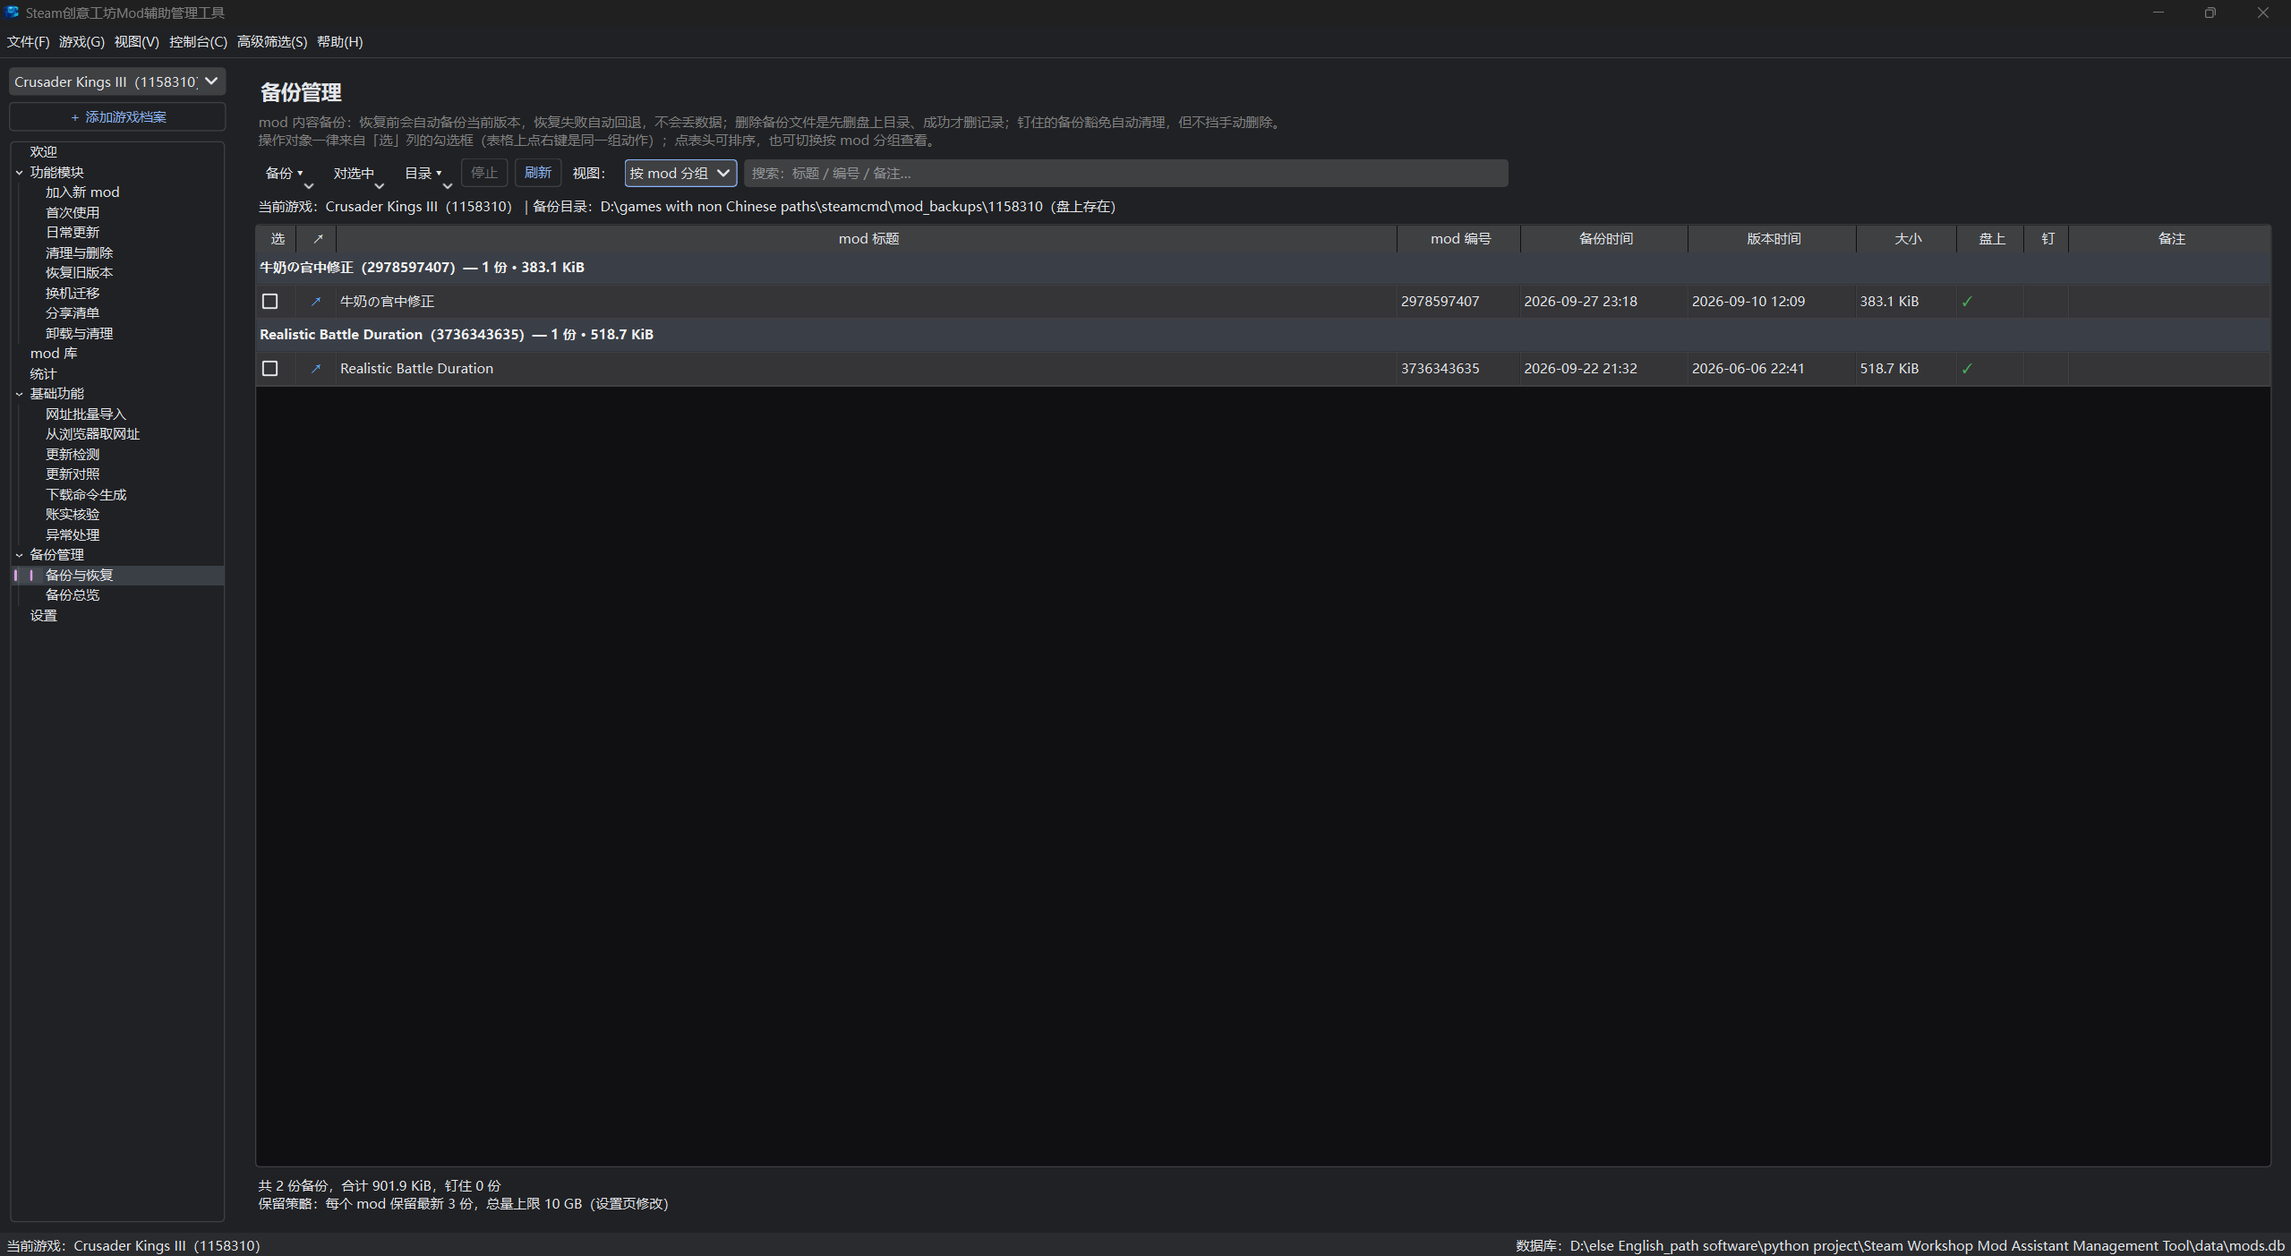
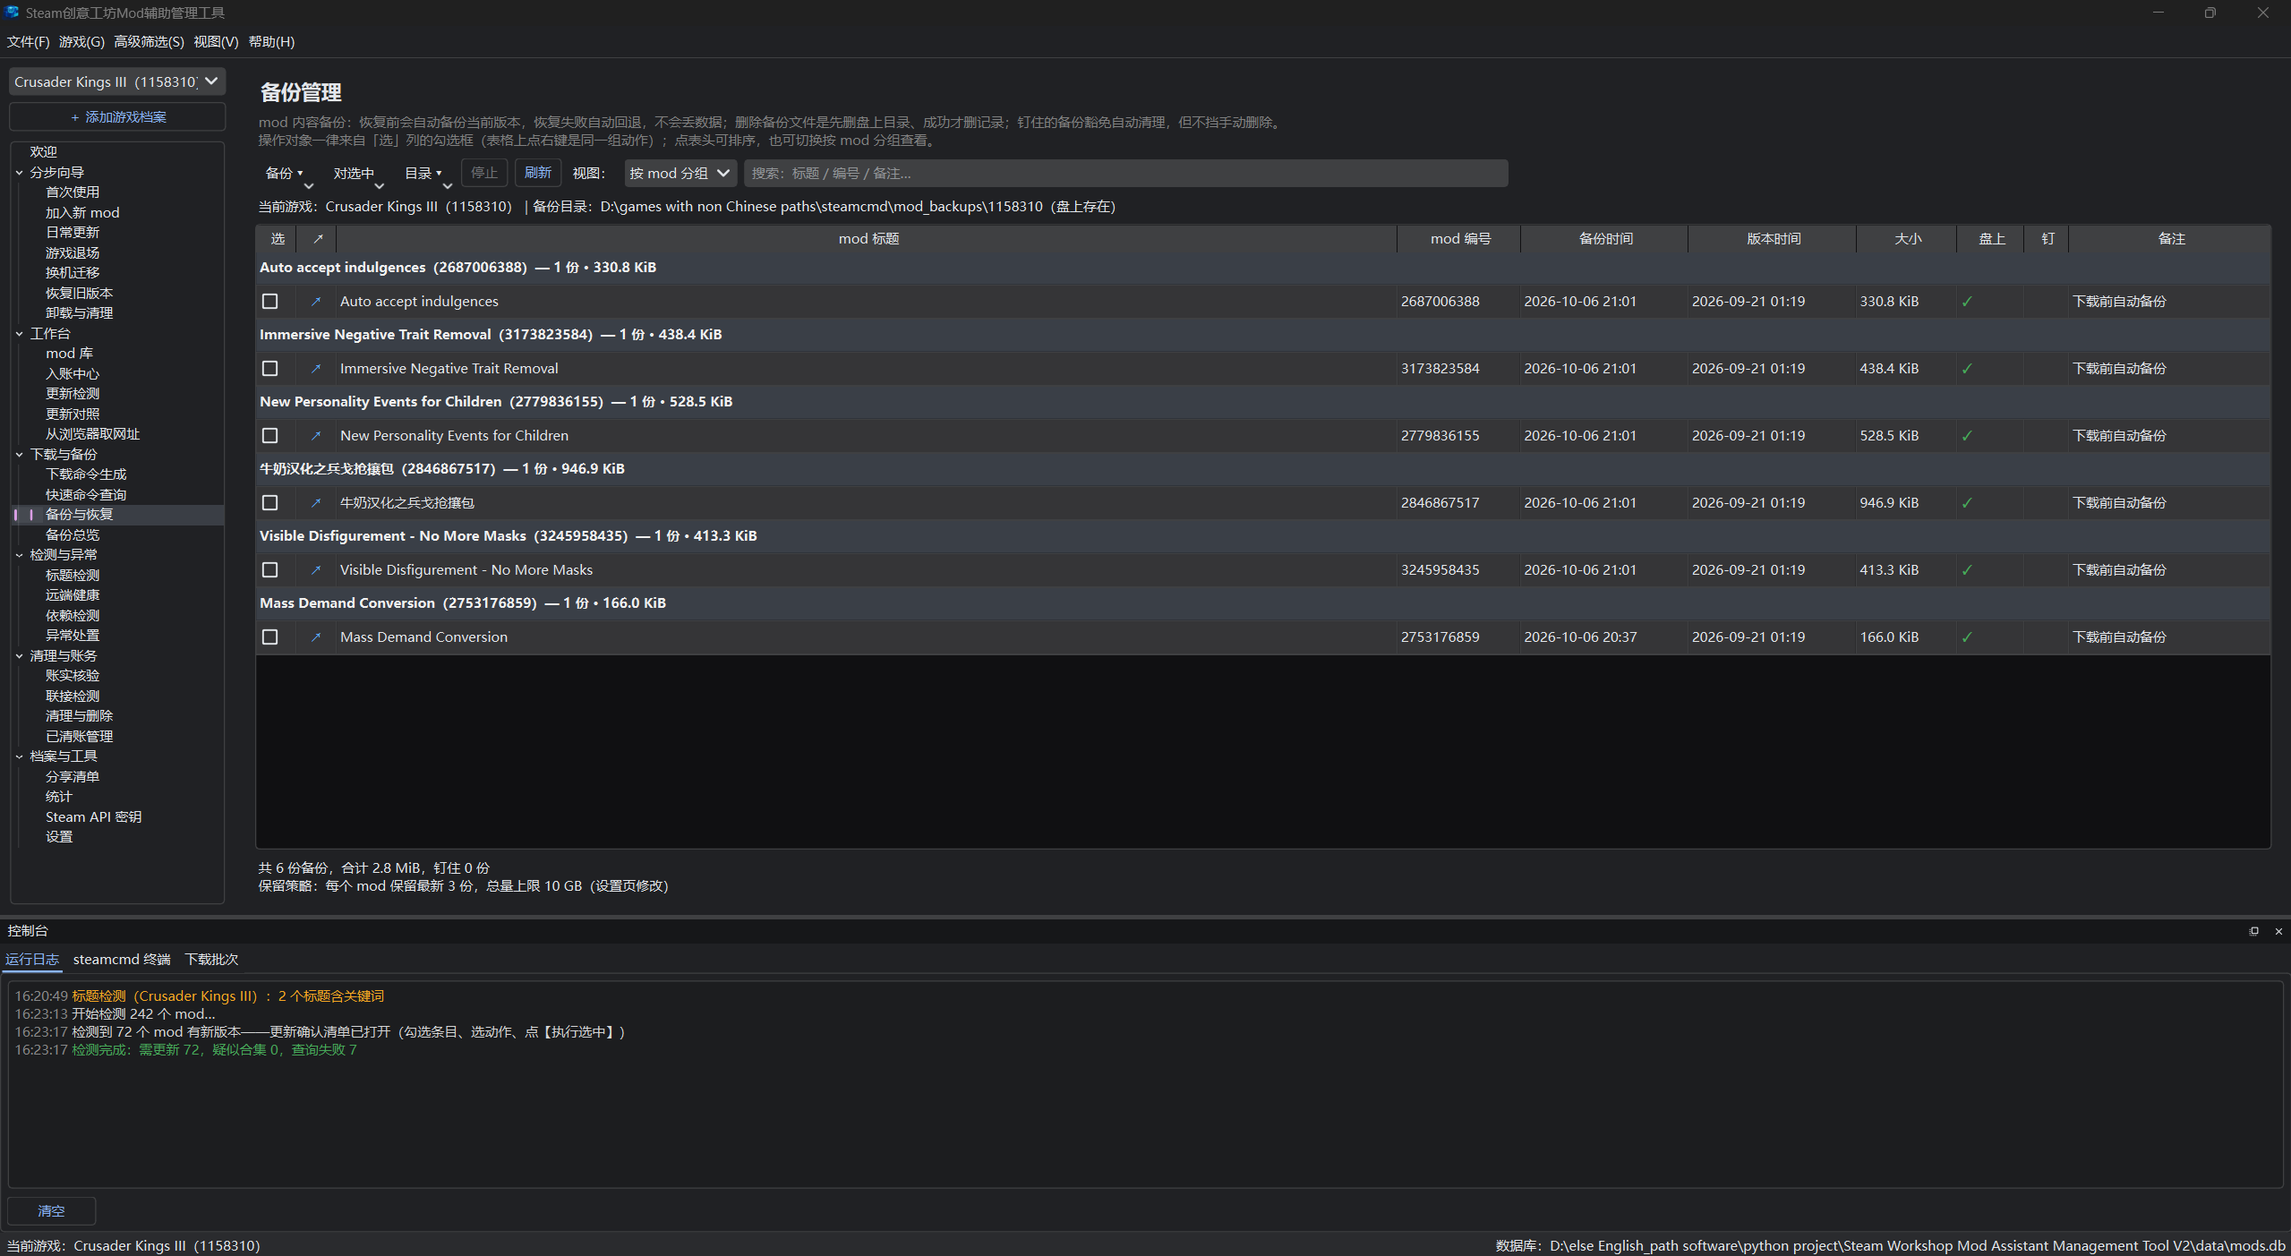
机制轮：批前清缓存接线 + 退出前账本断根扫尾（三时机闭环）

diff --git a/gui/welcomePage.py b/gui/welcomePage.py
@@ -168,7 +168,60 @@ class WelcomePage(QWidget):
             " ③ 与这台 steamcmd 共用的其他前端（如 RimSort）下载的 mod "
             "不会自动入账：它们会出现在【入账中心】的「待认领」区"
             "（批次结束会自动盘点，平时也可以随时点「扫描游戏目录」），你"
-            "看过、点头之后才算数。",
+            "看过、点头之后才算数。一次性收编没问题——但同一个游戏长期"
+            "两边管会打架，见下面「一个游戏一个管家」一节；",
+
+        ])
+        self._section("steamcmd 的两个坑（为什么要有这套设计）", [
+            "本工具对「本地版本」「确认入账」的较真不是风格偏好，是被 "
+            "steamcmd 的两个真实行为逼出来的——v1 版本在这两个坑里都"
+            "栽过，v2 推倒重来的设计就是冲它们来的：",
+            " ",
+            "坑一·steamcmd 自己有本账，而且会「说谎」。",
+            " steamcmd 在自己的目录树里维护一份内部记账文件，记着"
+            "「哪些 mod 已安装」；它退出或做整体校验时会把这份文件"
+            "整个重写。更麻烦的是它的下载缓存：删掉的 mod 的数据块"
+            "留在缓存里，之后任何一次下载都可能触发「整体校验装配」，"
+            "把已删除的 mod 原样装回硬盘、重新写进那份记账文件——"
+            "这就是「删掉的 mod 复活」。v1 就是照着盘面和这份记账记"
+            "版本的，复活的 mod 原样重新入账；v2 立「判决制」、把版本"
+            "认定收进确认门，直接原因就在这。",
+            "v2 的对策分三层，层层兜底：①版本与在册状态只认确认门，"
+            "盘面文件与 steamcmd 的记账产物一律没资格自动写进本工具"
+            "的账本（机器不替你做主）；②「彻底清账」自动登记黑名单，"
+            "复活的内容被拦在「入账」门外；③每批下载开始前自动清"
+            "缓存（默认开，设置页可关），退出程序时再把黑名单条目"
+            "从 steamcmd 的记账文件里移除——从源头断根。",
+            " ",
+            "坑二·更新是整个替换，没有增量。",
+            " steamcmd 更新一个 mod = 旧内容文件夹整个删掉、重新下载"
+            "完整一份。所以本工具坚持「备份先行」：版本确认过的条目，"
+            "更新前先把旧版本完整备份（【备份与恢复】页统一管理，可设"
+            "保留份数与总容量上限），新版本出问题随时整份退回。",
+        ])
+        self._section("一个游戏一个管家（RimSort 等别的前端）", [
+            "RimSort 这类前端同样是指挥 steamcmd 下载 mod 的管理器，"
+            "和本工具是同行——抢的是同一台机器：steamcmd 只有一个，"
+            "两边各有各的 mod 清单和版本记录，互相不知道对方做了什么。"
+            "同一个游戏两边一起管，一定会打架：",
+            " ",
+            "· 本工具删掉（彻底清账）的 mod，RimSort 的清单里还留着 → "
+            "它下次开批就把整份重新下载回来。黑名单拦得住「进本工具"
+            "的账」，拦不住别的管家把它写回硬盘——要真断根，先把"
+            "那边清单里的条目移除；",
+            "· 版本对不上：RimSort 不认识本工具「确认过的版本」。你在"
+            "本工具里回拨或钉住的版本，它按自己的记录照样催更；它替"
+            "你升完，盘上变新、本工具账上还是旧，下轮【更新检测】"
+            "再报「需更新」——两个管家对同一批文件各说各话，来回"
+            "拉扯没有赢家；",
+            "· 两边同时开批会抢同一个 steamcmd 的缓存与记账文件，"
+            "写入互相覆盖，两边的账都可能白做。",
+            " ",
+            "结论：同一个游戏的 mod 下载、更新、删除，只托付给一个"
+            "管家。用本工具管 RimWorld，就把 RimSort 清单里对应的"
+            "条目清掉（至少永远别点它的「更新全部」）；想整个改用 "
+            "RimSort 管，先走【游戏退场】把该游戏从本工具里干净退出。"
+            "不同游戏各用各的没问题——冲突只发生在同一个游戏上。",
         ])
 
         self._section("两本账（版本时间从哪来）", [
@@ -182,6 +235,10 @@ class WelcomePage(QWidget):
             "「需更新」= 远端更新时间比本地确认版本新。刚登记还没下载的"
             "条目不参与比较；刚下载还没确认的条目本地版本显示「未知」——"
             "去【入账中心】确认一下就好。",
+            "为什么这么死板？凡是自动读盘面记版本的做法，都被 steamcmd 的"
+            "缓存装配机制反复打过脸——见上上节「steamcmd 的两个坑」，"
+            "确认门是拿教训换来的设计。",
+
         ])
 
         self._section("账与盘（状态和文件夹为什么可能对不上）", [
@@ -315,7 +372,10 @@ class WelcomePage(QWidget):
             "（需要免费的 API key）。",
             "已清账与黑名单 「彻底清账」把记录物理删除，同时把编号登记进"
             "黑名单；之后即使 steamcmd 把删掉的 mod 重新装配回来，也不会"
-            "入账。「已清账管理」页可查看名单、允许录入或手动拉黑。",
+            "入账。「已清账管理」页可查看名单、允许录入或手动拉黑；退出"
+            "程序时会自动把这些编号从 steamcmd 的记账文件里移除（断根"
+            "扫尾），不劳你惦记。",
+
         ])
 
         # 旧：self._section("功能模块总表（与左导航「功能模块」组对应）", [

diff --git a/gui/batchDownloadController.py b/gui/batchDownloadController.py
@@ -45,22 +45,21 @@ QThread 里跑；线程只调 BackupManager / SteamApiClient（前者写库沿
 原文核对后为准。
 """
 from types import SimpleNamespace
-from core import inventoryFlow
 
 from PySide6.QtCore import QThread, QUrl, Signal
 from PySide6.QtGui import QDesktopServices
 from PySide6.QtWidgets import QApplication, QMessageBox, QWidget
 
-from core import constants, netGate
-
-
+from core import constants, netGate, steamPaths
+from core import inventoryFlow
 from core.backupManager import BackupManager, steamcmd_running
 from core.batchDownloadFlow import BatchDownloadFlow, resolve_written
 from core.modRepository import ModRepository
 from core.steamApiClient import SteamApiClient, SteamApiError
+from core.urlParser import workshop_url
 from gui.logBus import LogBus
 from gui.modFolderOpener import open_mod_folder
-from core.urlParser import workshop_url
+
 # 备份引擎的保留策略参数在 _BackupPhaseWorker 构造时从设置页现读：
 # backup_keep_per_mod / backup_total_quota_gb 两键（core/appSettings.DEFAULTS）。
 
@@ -271,6 +270,13 @@ class BatchDownloadController(QWidget):
             self._log.error("该档案没有设置下载目录：请到「游戏 → 编辑档案」"
                             "补齐后再下载")
             return False
+        # 决策 100（修35）：批次前清缓存——设置页开关默认开、hint 早已
+        # 向用户承诺"每批下载开始前自动清空"，此前全项目零消费点。
+        # 时机 = 开批检查全过、任何命令都还没发（steamcmd 刚起在提示符
+        # 空闲，不持缓存文件锁；备份阶段读的 content 目录与缓存目录
+        # 互不相干）。清理是优化不是前提：引擎逐项尝试、占用/联接
+        # 跳过、绝不抛错（契约见 core/steamPaths.clear_download_caches）。
+        self._clear_steamcmd_caches()
 
         # 锁定本轮上下文：之后用户切档案只影响界面，不影响批次
         self._game = game
@@ -288,6 +294,7 @@ class BatchDownloadController(QWidget):
             return True
 
         return self._begin_download_phase(ids)
+
     def _has_login_cmd(self) -> bool:
         """本批是否自动登录（决策 91 综合判定；start_batch 的卡片
         has_login 与 _launch_flow 的 login_cmd 共用这一个判定，两边
@@ -303,6 +310,33 @@ class BatchDownloadController(QWidget):
         raw = str(self._settings.get("steamcmd_login_cmd") or "")
         return bool(raw.strip())
 
+    def _clear_steamcmd_caches(self) -> None:
+        """决策 100：批次开始前清空 steamcmd 下载缓存（depotcache 与
+        workshop\\downloads）——steamcmd 会用缓存把已删除的 mod 原样
+        装配回 content 并写回它的账本文件（"复活"机制），清掉即断根；
+        对部分"下载失败"也有改善。设置开关
+        steamcmd_clear_cache_before_batch（默认开）；关 = 直发车，
+        保留缓存省流量（换来的代价是删过的 mod 可能被装配回来——
+        黑名单与退出扫尾仍在，见 MainWindow._acf_sweep_at_exit）。
+        引擎单源 core/steamPaths.clear_download_caches：content 目录
+        本体一概不碰；steamcmd 未配置 → 无事发生。
+        已知限制：缓存特别大时 rmtree 在主线程可能占几秒（首批最明显，
+        之后每批只清当批增量）。实测明显卡顿再升级为线程化，先不预设。"""
+        if self._settings.get_int("steamcmd_clear_cache_before_batch", 1) == 0:
+            return
+        cmd = str(self._settings.get("steamcmd_path") or "")
+        try:
+            freed, cleared, skipped = steamPaths.clear_download_caches(cmd)
+        except Exception as exc:  # 清理是优化：任何意外都不拦批次
+            self._log.warn(f"批次前清缓存出错（照常开批）：{exc}")
+            return
+        if cleared == 0 and not skipped:
+            return  # 缓存本来就空 / 未配置：零日志噪音
+        line = (f"批次前清缓存：清掉 {cleared} 项，"
+                f"释放 {freed / 2 ** 20:.1f} MB")
+        if skipped:
+            line += f"；跳过 {len(skipped)} 项（被占用/联接，不影响开批）"
+        self._log.info(line)
 
     # ---------------- 阶段一：备份（决策 40） ----------------
     def _start_backup_phase(self, ids: list[int]) -> None:

diff --git a/gui/MainWindow.py b/gui/MainWindow.py
@@ -73,9 +73,11 @@ from PySide6.QtWidgets import (
 from gui.browserTabPage import BrowserTabPage
 from gui.browserPickDialog import BrowserPickDialog
 
-
 from core import appPaths
 from core import constants
+from core import steamPaths
+from core.backupManager import steamcmd_running
+
 from core.appSettings import AppSettings
 from core.models import Game
 from core.sqliteRepository import SQLiteRepository
@@ -1336,6 +1338,10 @@ class MainWindow(QMainWindow):
             if callable(shutdown):
                 shutdown()
 
+        # 退出前断根扫尾（决策 114）：steamcmd 已在上面收停、账本还没
+        # 关——正是补断根刀的安全窗口。详见 _acf_sweep_at_exit。
+        self._acf_sweep_at_exit()
+
         self._save_panel_state()
         self._repo.close()
         super().closeEvent(event)
@@ -1428,6 +1434,64 @@ class MainWindow(QMainWindow):
         # 错位；空库存空串，恢复侧按"没有"处理
         game = self._current_game
         q.setValue(_SES_LAST_GAME, game.app_id if game is not None else "")
+    def _acf_sweep_at_exit(self) -> None:
+        """退出前断根扫尾（决策 114）：把黑名单登记的全部编号从
+        steamcmd 的账本文件里移除。
+
+        为什么扫整个黑名单而不是记"欠账清单"：断根被跳过的情形
+        （清账那一刻 steamcmd 在跑，mod 库页只留指路日志）不落任何
+        登记也无从补记；而黑名单的语义本就是"这些编号永不再来"，
+        steamcmd 账本里留着它们的登记只会反复触发校验装配占盘。
+        每次退出扫一遍 = 黑名单与 steamcmd 账本最终一致，不再依赖
+        用户记得去【已清账管理】页手动执行；条目早已不在账本 = 引擎
+        原样返回，零副作用。
+
+        安全边界（与已清账页手动移除同款，引擎单源
+        core/steamPaths.remove_items_from_acf）：写前自动备份
+        （.bak_时间戳）、解析失败绝不落笔、文件级问题只记日志不
+        阻断其余档案。steamcmd 仍在跑（强杀未及退场等极端情况）→
+        整体跳过，下次退出再补。任何意外绝不阻断退出。"""
+        try:
+            if steamcmd_running():
+                self._log.warn("steamcmd 尚未完全退出：本次跳过账本"
+                               "断根扫尾（下次退出时补）")
+                return
+            root = steamPaths.steamcmd_root(
+                self._settings.get("steamcmd_path") or "")
+            if root is None:
+                return  # 没配 steamcmd：无事可做，静默
+            recs = self._repo.list_purged()
+            if not recs:
+                return
+            by_game: dict[int, list[int]] = {}
+            for r in recs:
+                by_game.setdefault(r.game_id, []).append(r.mod_id)
+            total_removed, games_done, failures = 0, 0, 0
+            for game_id, mids in sorted(by_game.items()):
+                acf = steamPaths.locate_acf(root, game_id)
+                if acf is None:
+                    continue  # 该游戏从没在本机下载过：无账可清
+                try:
+                    removed, _absent = steamPaths.remove_items_from_acf(
+                        acf, mids)
+                except ValueError as exc:
+                    failures += 1
+                    self._log.warn(f"账本扫尾：游戏 {game_id} 的账本"
+                                   f"未动（{exc}）")
+                    continue
+                if removed:
+                    total_removed += len(removed)
+                    games_done += 1
+            if total_removed:
+                self._log.ok(
+                    f"退出前断根扫尾：已通知 steamcmd 忘记黑名单里的 "
+                    f"{total_removed} 个条目（{games_done} 个游戏；"
+                    "原账本文件已自动备份在同目录）")
+            if failures:
+                self._log.warn(f"账本扫尾：{failures} 个游戏的账本文件"
+                               "有问题未动（详见上方日志）")
+        except Exception as exc:  # 收尾不拦退出
+            self._log.warn(f"退出前账本扫尾未完成（不影响退出）：{exc}")
 
     # ---------- 全局异常兜底 ----------
 

diff --git a/gui/purgedPage.py b/gui/purgedPage.py
@@ -106,7 +106,11 @@ class PurgedPage(QWidget):
             "这里是「彻底清账」登记的黑名单：名单里的编号，入账中心"
             "【扫描游戏目录】时一律拦截复活入库（steamcmd 把删掉的 mod "
             "装配回来也不入账——包括别的下载器清单残留和\"毒 mod\"下载"
-            "尝试触发的装配）。\n"
+            "尝试触发的装配）。黑名单拦的是「进本工具的账」：别的前端"
+            "（如 RimSort）清单里还留着这些编号、主动指挥 steamcmd 重新"
+            "下载时，文件照样回到硬盘——要彻底断根，先把那边清单清掉"
+            "（详见欢迎页「一个游戏一个管家」）。\n"
+
             "名词·毒 mod：一类下载永远超时的条目。steamcmd 尝试下载它"
             "时，会对本游戏的工坊状态做整体校验装配，把缓存里的旧数据块"
             "重新装配成内容文件夹并写回 steamcmd 的账本文件——这是"
